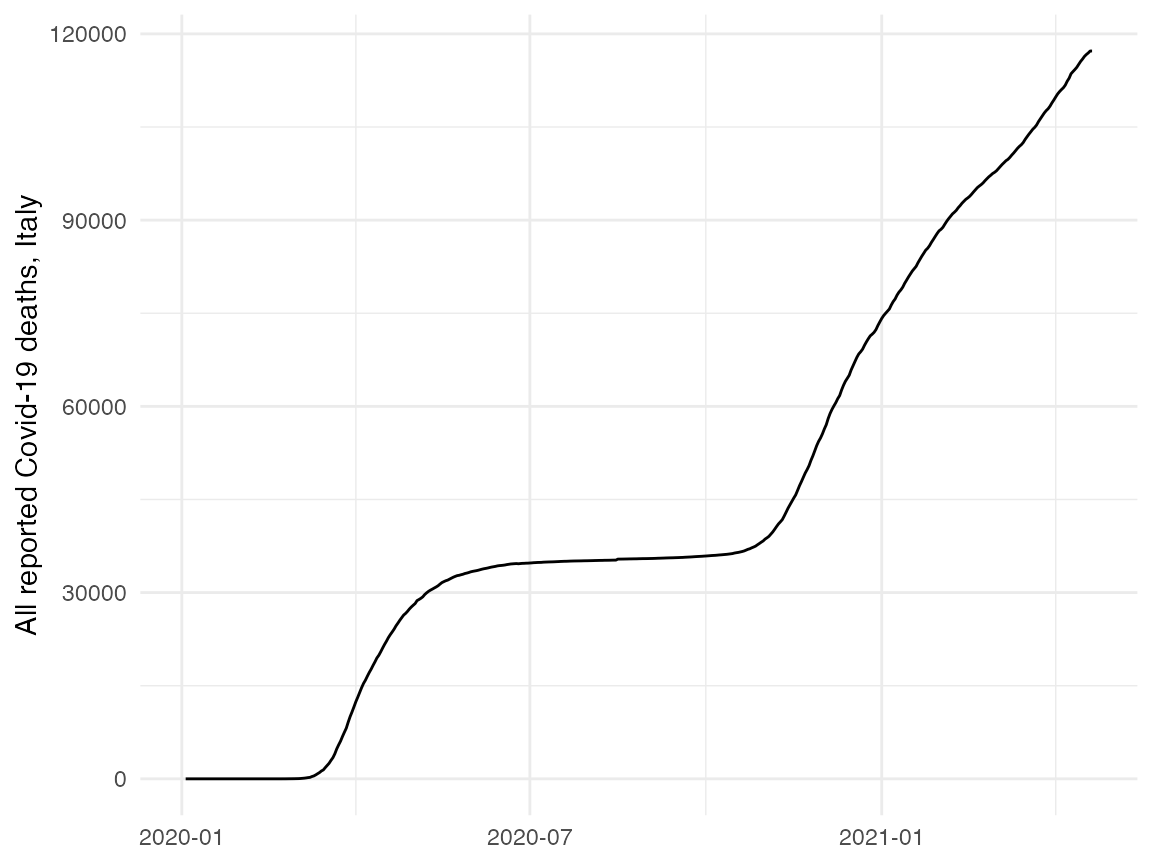
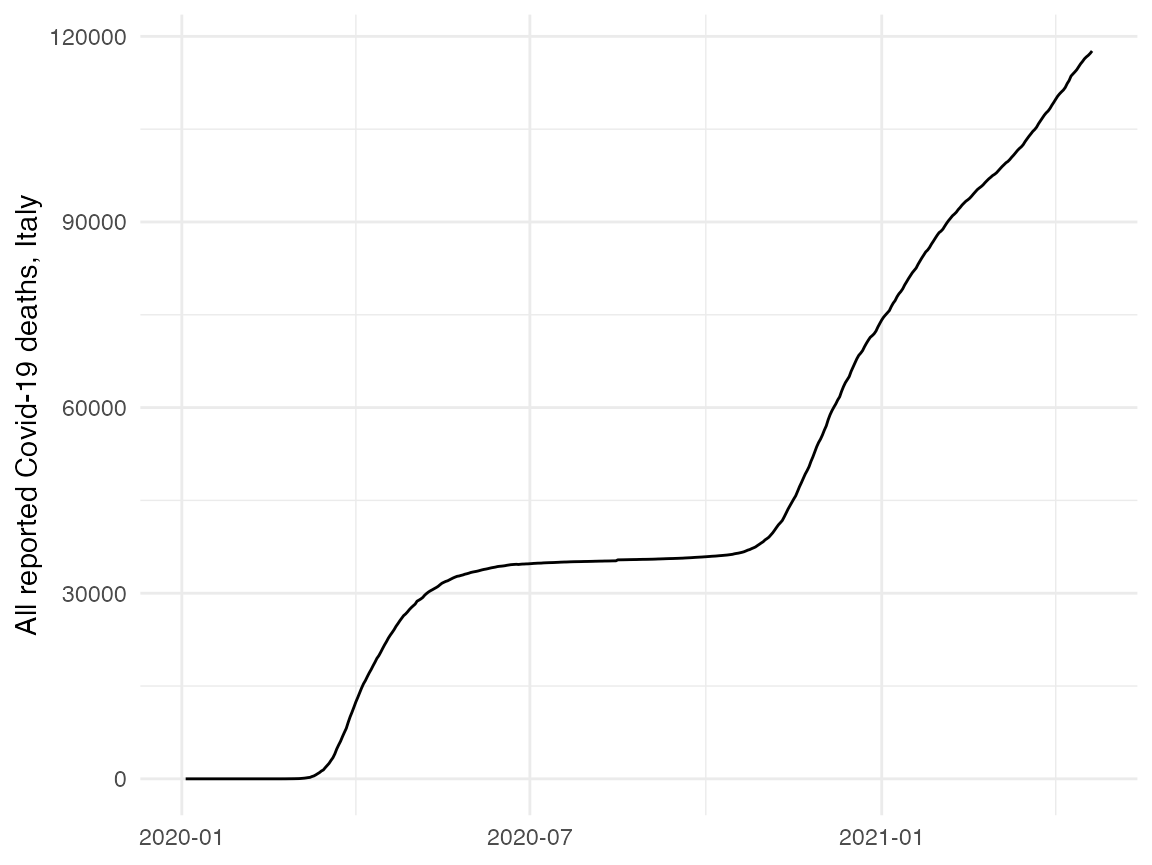
Built site for covidregionaldata: 0.9.0@07c45f2

diff --git a/articles/quickstart.html b/articles/quickstart.html
@@ -121,7 +121,7 @@
 <code class="sourceCode R"><span class="kw"><a href="https://rdrr.io/r/base/library.html" class="external-link">library</a></span><span class="op">(</span><span class="va"><a href="https://epiforecasts.io/covidregionaldata/">covidregionaldata</a></span><span class="op">)</span>
 <span class="va">all_countries</span> <span class="op">&lt;-</span> <span class="fu"><a href="../reference/get_national_data.html">get_national_data</a></span><span class="op">(</span><span class="op">)</span>
 <span class="co">#&gt; Downloading data from https://covid19.who.int/WHO-COVID-19-global-data.csv</span>
-<span class="co">#&gt; Rows: 112,463</span>
+<span class="co">#&gt; Rows: 112,575</span>
 <span class="co">#&gt; Columns: 8</span>
 <span class="co">#&gt; Delimiter: ","</span>
 <span class="co">#&gt; chr  [3]: Country_code, Country, WHO_region</span>
@@ -135,7 +135,7 @@
 <p>We can take a look at this data by printing it to the console:</p>
 <div class="sourceCode" id="cb2"><pre class="downlit sourceCode r">
 <code class="sourceCode R"><span class="va">all_countries</span>
-<span class="co">#&gt; # A tibble: 112,574 x 15</span>
+<span class="co">#&gt; # A tibble: 112,575 x 15</span>
 <span class="co">#&gt;    date       un_region who_region country        iso_code cases_new cases_total</span>
 <span class="co">#&gt;    &lt;date&gt;     &lt;chr&gt;     &lt;chr&gt;      &lt;chr&gt;          &lt;chr&gt;        &lt;dbl&gt;       &lt;dbl&gt;</span>
 <span class="co">#&gt;  1 2020-01-03 Asia      EMRO       Afghanistan    AF               0           0</span>
@@ -148,7 +148,7 @@
 <span class="co">#&gt;  8 2020-01-03 Americas  AMRO       Antigua &amp; Bar… AG               0           0</span>
 <span class="co">#&gt;  9 2020-01-03 Americas  AMRO       Argentina      AR               0           0</span>
 <span class="co">#&gt; 10 2020-01-03 Asia      EURO       Armenia        AM               0           0</span>
-<span class="co">#&gt; # … with 112,564 more rows, and 8 more variables: deaths_new &lt;dbl&gt;,</span>
+<span class="co">#&gt; # … with 112,565 more rows, and 8 more variables: deaths_new &lt;dbl&gt;,</span>
 <span class="co">#&gt; #   deaths_total &lt;dbl&gt;, recovered_new &lt;dbl&gt;, recovered_total &lt;dbl&gt;,</span>
 <span class="co">#&gt; #   hosp_new &lt;dbl&gt;, hosp_total &lt;dbl&gt;, tested_new &lt;dbl&gt;, tested_total &lt;dbl&gt;</span></code></pre></div>
 <p>We can see that this provides information about the number of cases and deaths for each country over time. As a tibble is returned, we can easily manipulate and plot this using <code>tidyverse</code> packages. For example, we can plot the total deaths in Italy over time.</p>
@@ -190,16 +190,16 @@
 <span class="co">#&gt; # A tibble: 236 x 7</span>
 <span class="co">#&gt;    country        iso_code cases_total deaths_total recovered_total hosp_total</span>
 <span class="co">#&gt;    &lt;chr&gt;          &lt;chr&gt;          &lt;dbl&gt;        &lt;dbl&gt;           &lt;dbl&gt;      &lt;dbl&gt;</span>
-<span class="co">#&gt;  1 United States  US          31350025       562435               0          0</span>
+<span class="co">#&gt;  1 United States  US          31406215       562949               0          0</span>
 <span class="co">#&gt;  2 India          IN          15616130       182553               0          0</span>
 <span class="co">#&gt;  3 Brazil         BR          13973695       374682               0          0</span>
-<span class="co">#&gt;  4 France         FR           5215259       100536               0          0</span>
-<span class="co">#&gt;  5 Russia         RU           4718854       106307               0          0</span>
-<span class="co">#&gt;  6 United Kingdom GB           4390787       127274               0          0</span>
-<span class="co">#&gt;  7 Turkey         TR           4323596        36267               0          0</span>
-<span class="co">#&gt;  8 Italy          IT           3879142       117274               0          0</span>
-<span class="co">#&gt;  9 Spain          ES           3428354        77102               0          0</span>
-<span class="co">#&gt; 10 Germany        DE           3163308        80303               0          0</span>
+<span class="co">#&gt;  4 France         FR           5257859       100917               0          0</span>
+<span class="co">#&gt;  5 Russia         RU           4727125       106706               0          0</span>
+<span class="co">#&gt;  6 United Kingdom GB           4393311       127307               0          0</span>
+<span class="co">#&gt;  7 Turkey         TR           4384624        36613               0          0</span>
+<span class="co">#&gt;  8 Italy          IT           3891211       117664               0          0</span>
+<span class="co">#&gt;  9 Spain          ES           3435840        77216               0          0</span>
+<span class="co">#&gt; 10 Germany        DE           3188192        80634               0          0</span>
 <span class="co">#&gt; # … with 226 more rows, and 1 more variable: tested_total &lt;dbl&gt;</span></code></pre></div>
 </div>
 <div id="retrieving-subnational-region-data" class="section level2">
